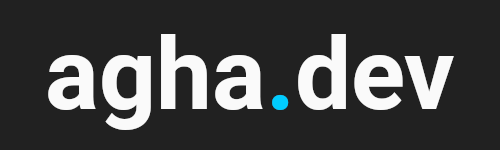
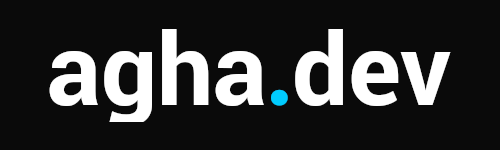
Update images

Changed region(s): [[0.09, 0.1867, 0.93, 0.88], [0.09, 0.3733, 0.12, 0.4]]

diff --git a/assets/css/schemes/nour.css b/assets/css/schemes/nour.css
@@ -6,9 +6,9 @@
   --color-neutral-300: 182, 188, 195;
   --color-neutral-400: 170, 177, 186;
   --color-neutral-500: 107, 114, 124;
-  --color-neutral-600: 52, 58, 66;
-  --color-neutral-700: 28, 32, 38;
-  --color-neutral-800: 10, 11, 13;
+  --color-neutral-600: 56, 56, 56;
+  --color-neutral-700: 30, 30, 30;
+  --color-neutral-800: 10, 10, 10;
   --color-neutral-900: 0, 0, 0;
 
   --color-primary-50:  245, 252, 255;
